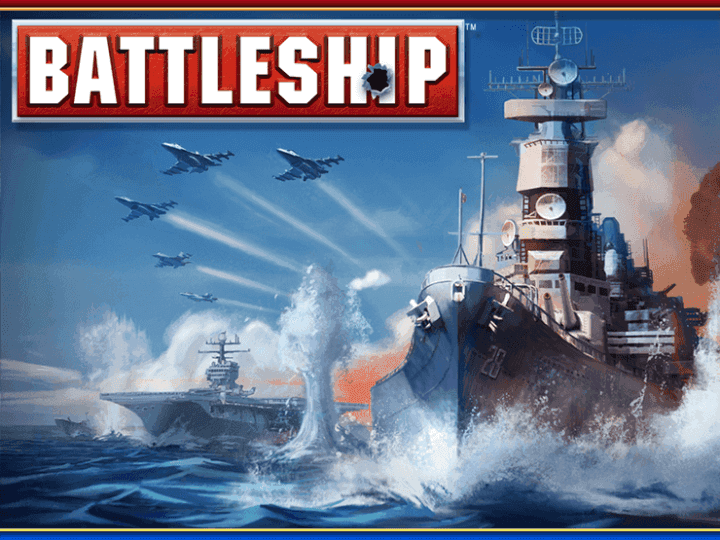
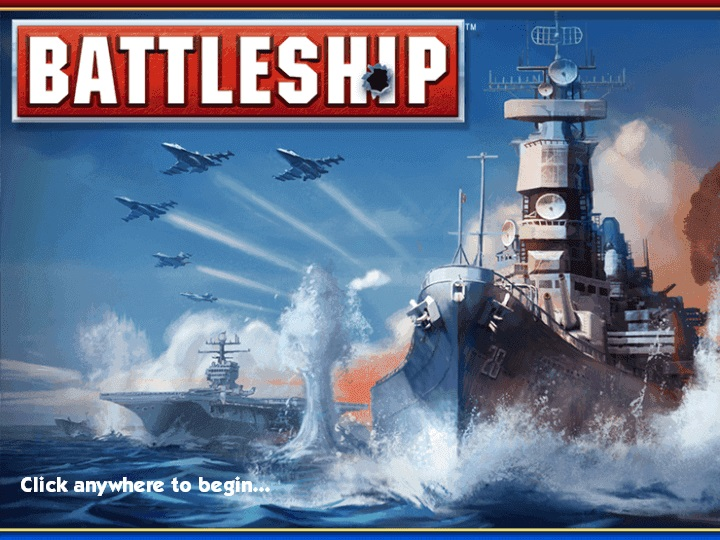
Fix?

Changed region(s): [[0.0, 0.9778, 1.0, 1.0], [0.0611, 0.0, 1.0, 0.0296], [0.0306, 0.8593, 0.3667, 0.9185]]

diff --git a/StartScreen.java b/StartScreen.java
@@ -1,25 +1,56 @@
 import java.io.File;
-import java.net.URL;
-import java.awt.*;
+import java.util.*;
 
-public class StartScreen {
+import org.w3c.dom.events.MouseEvent;
+
+import java.awt.*;
+import java.awt.event.*;
+
+public class StartScreen extends MouseAdapter implements KeyListener {
     private DrawingPanel startScreen;
     private Graphics g;
+    private int down;
+    private Image f;
 
+    public StartScreen(int stage) {
+            startScreen = new DrawingPanel(720, 540, 0);
+            startScreen.addKeyListener(this);
+            startScreen.addMouseListener(this);
+            g = startScreen.getGraphics();
+        if (stage == 1) {
+            Image f = startScreen.loadImage(new File(".\\StartScreen.jpg"));
+            g.drawImage(f, 0, 0, startScreen);
+        }
+        else if(stage == 2){
+            startScreen = new DrawingPanel(720, 540, 0);
 
-    public StartScreen() throws Exception{
-        startScreen = new DrawingPanel(720,540, 0);
-        Image f = startScreen.loadImage(new File(".\\StartScreen.jpg"));
-        g = startScreen.getGraphics();
-        g.drawImage(f, 0, 0, startScreen);
-        g.setFont(new Font("Koulen", Font.BOLD, 45));
-        g.drawString("Choose a game mode!", 100, 290);
-        String fonts[] = 
-      GraphicsEnvironment.getLocalGraphicsEnvironment().getAvailableFontFamilyNames();
-        for (int i = 0; i < fonts.length; i++) {
-            System.out.println(fonts[i]);
         }
 
+    }
+
+    public void arrow() {
         
+
+        g.setFont(new Font("Arial", Font.BOLD, 30));
+        g.drawString(">", 155, 357 + down);
+    }
+
+    public void mouseClicked(MouseEvent e) {
+        startScreen.getFrame().dispose();
+    }
+
+    public void keyPressed(KeyEvent e) {
+        int key = e.getKeyCode();
+        switch (key) {
+            case KeyEvent.VK_DOWN:
+                startScreen.clear();
+
+        }
+    }
+
+    public void keyReleased(KeyEvent e) {
+    }
+
+    public void keyTyped(KeyEvent e) {
     }
 }

diff --git a/Demo.java b/Demo.java
@@ -1,0 +1,46 @@
+// import java.util.*;
+// import java.awt.*;
+// import java.awt.event.*;
+// public class Demo extends MouseAdapter implements KeyListener 
+// {
+//     DrawingPanel frame;
+//     Graphics g;
+//     public Demo()
+//     {
+//         frame = new DrawingPanel(600,300);
+//         g = frame.getGraphics();
+//         frame.addMouseListener(this);
+//         frame.addKeyListener(this);
+//     }
+//     public void mouseClicked(MouseEvent e)
+//     {
+//         int x = e.getX();
+//         int y = e.getY();
+//         //System.out.println(x+" "+ y);
+//         if(x < 100 && x >= 0 && y <100 && y>=0){
+//             g.setColor(Color.RED);
+//             g.fillRect(0,0,300,200);
+//             g.setColor(Color.BLACK);
+//             g.setFont(new Font("Arial",Font.BOLD, 30));
+//             g.drawString("Hello World!",100,40);
+//         }
+//         else{
+//             frame.getFrame().dispose();
+//             new Demo();
+//         }
+//     }
+//     public void keyPressed(KeyEvent e)
+//     {
+//         int key  = e.getKeyCode();
+//         if(key == KeyEvent.VK_LEFT){
+//             Image i = frame.loadImage(".\\Final Project Student Notes\\pmg.jpg");
+//             g.drawImage(i, 0, 0, frame);
+//         }
+//         else if(key == KeyEvent.VK_A){
+//             Image i = frame.loadImage(".\\Final Project Student Notes\\pic.jpg");
+//             g.drawImage(i, 400, 0, frame);
+//         }
+//     }
+//     public void keyReleased(KeyEvent e){}
+//     public void keyTyped(KeyEvent e){}
+// }

diff --git a/Main.java b/Main.java
@@ -2,7 +2,7 @@ import java.io.File;
 
 public class Main {
     public static void main(String[] args)throws Exception {
-        new StartScreen();
+        new StartScreen(1);
     }
 
 }
